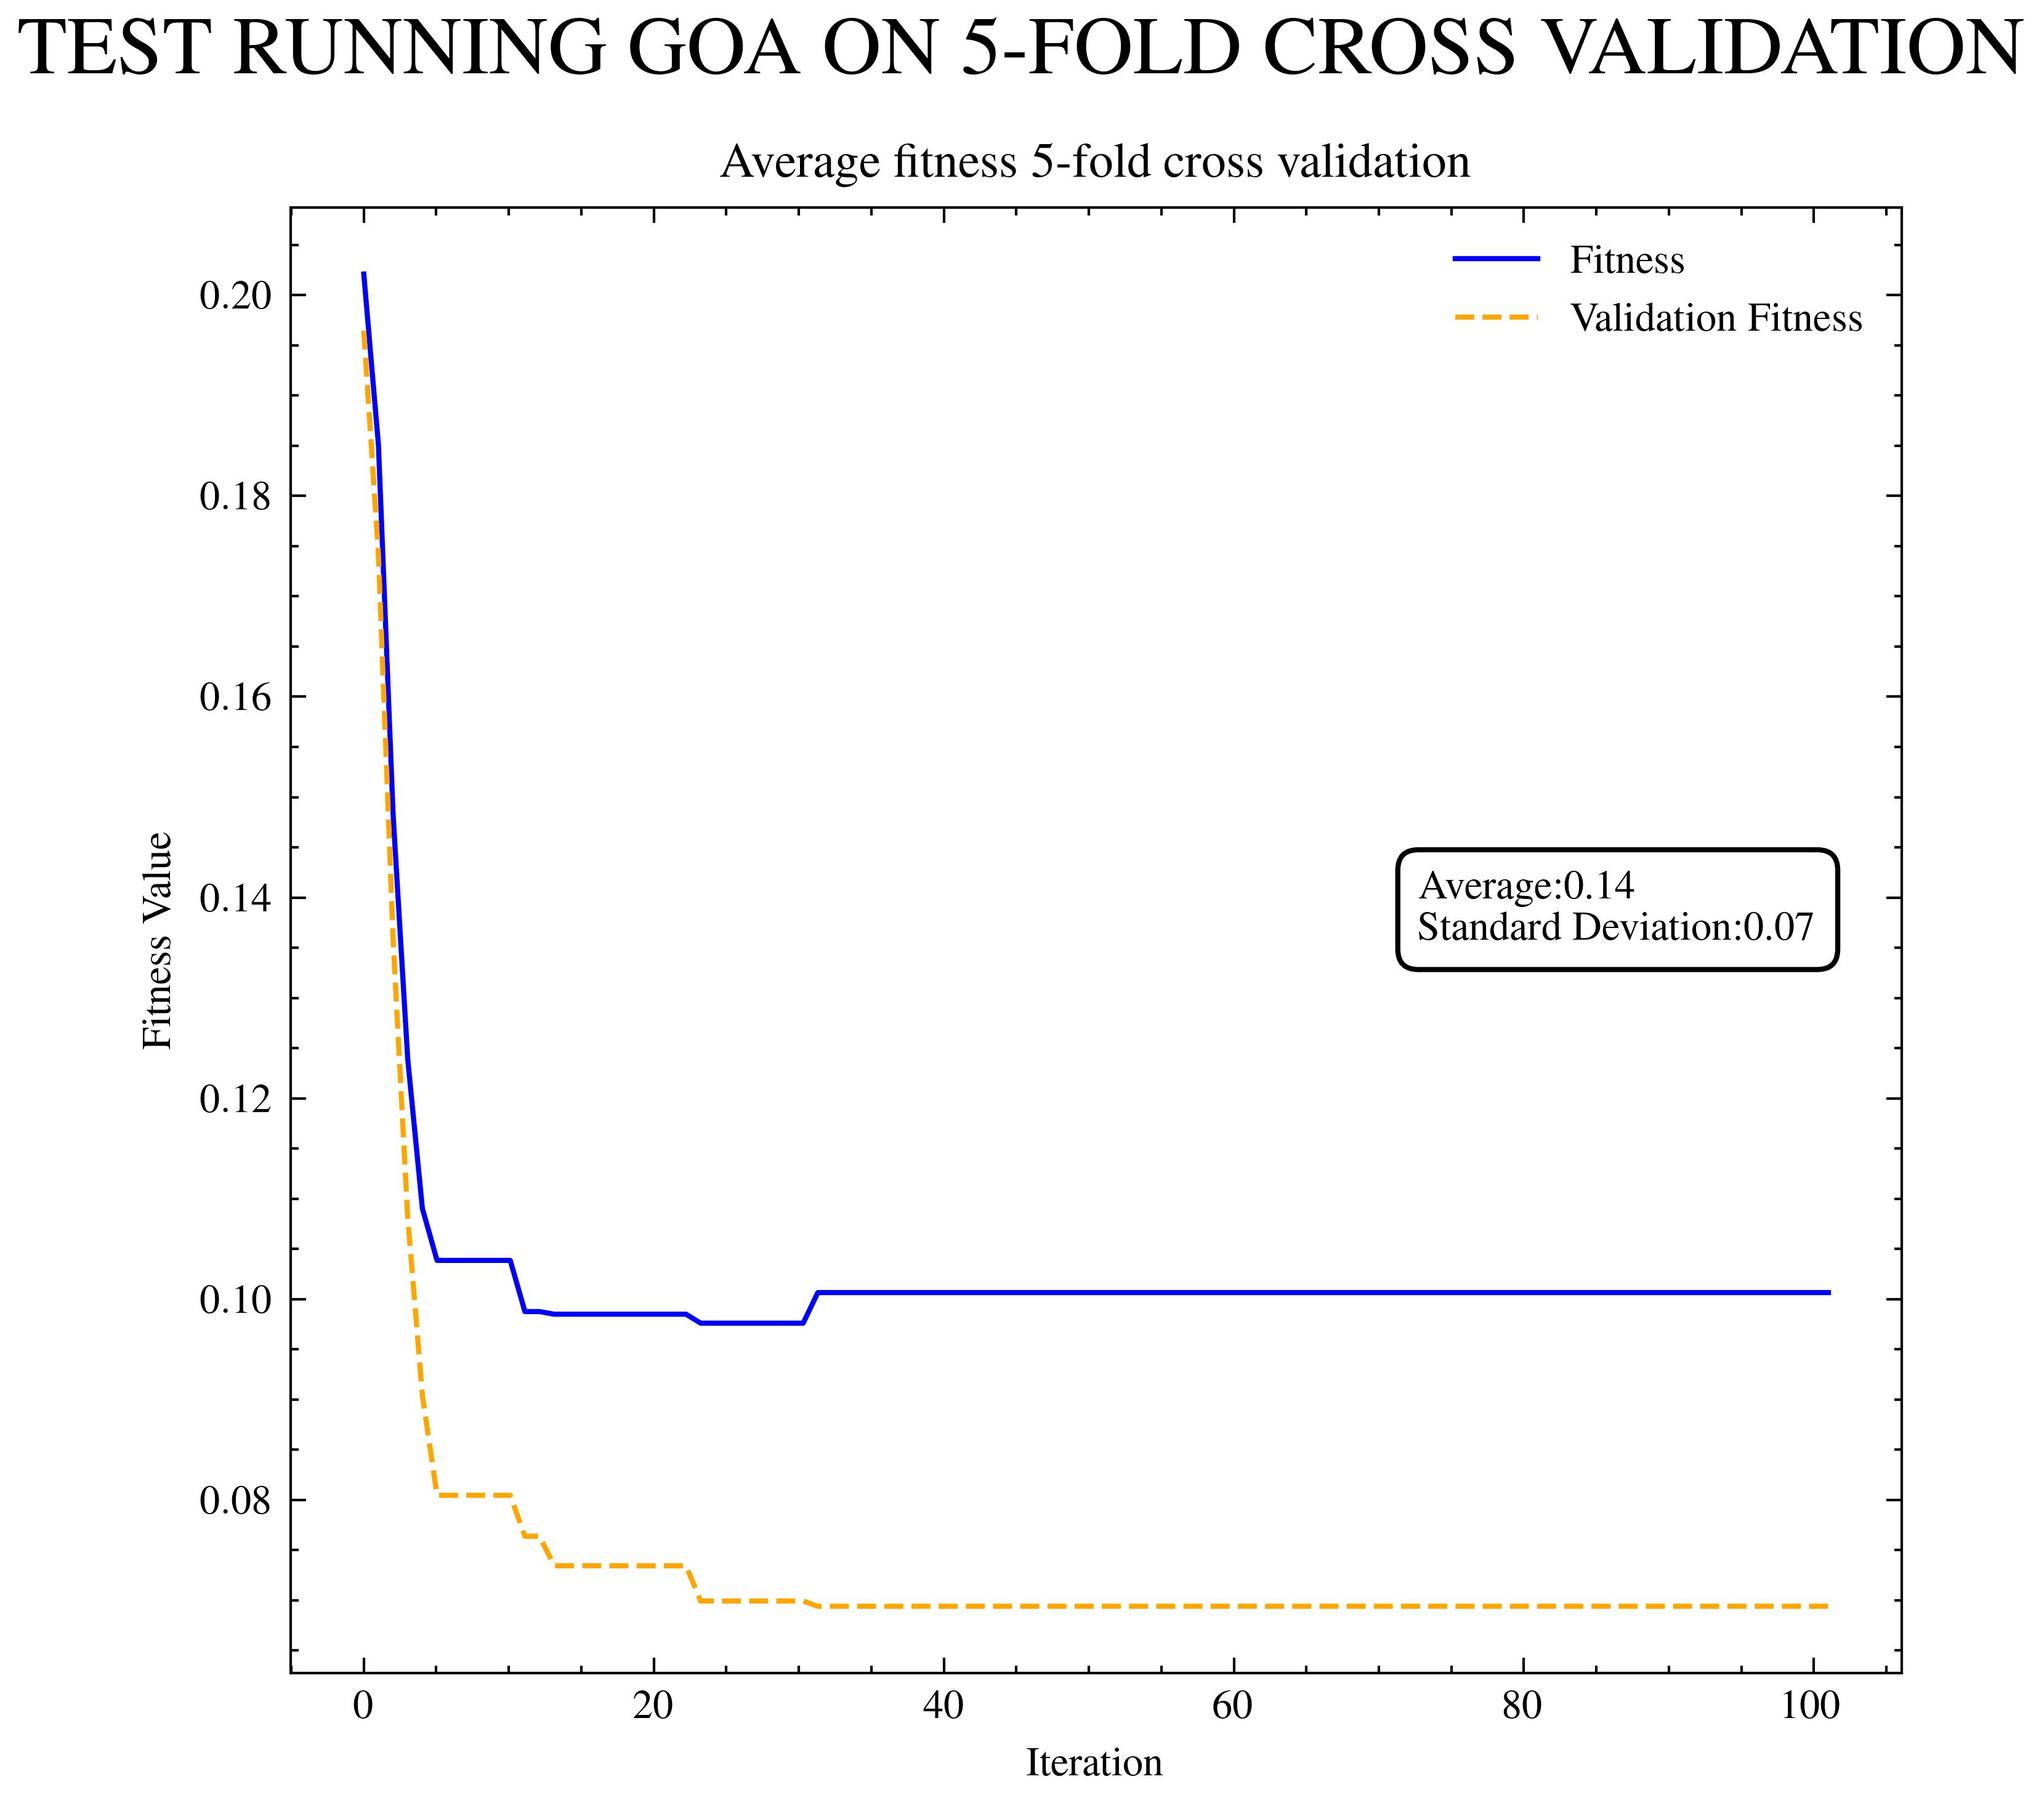
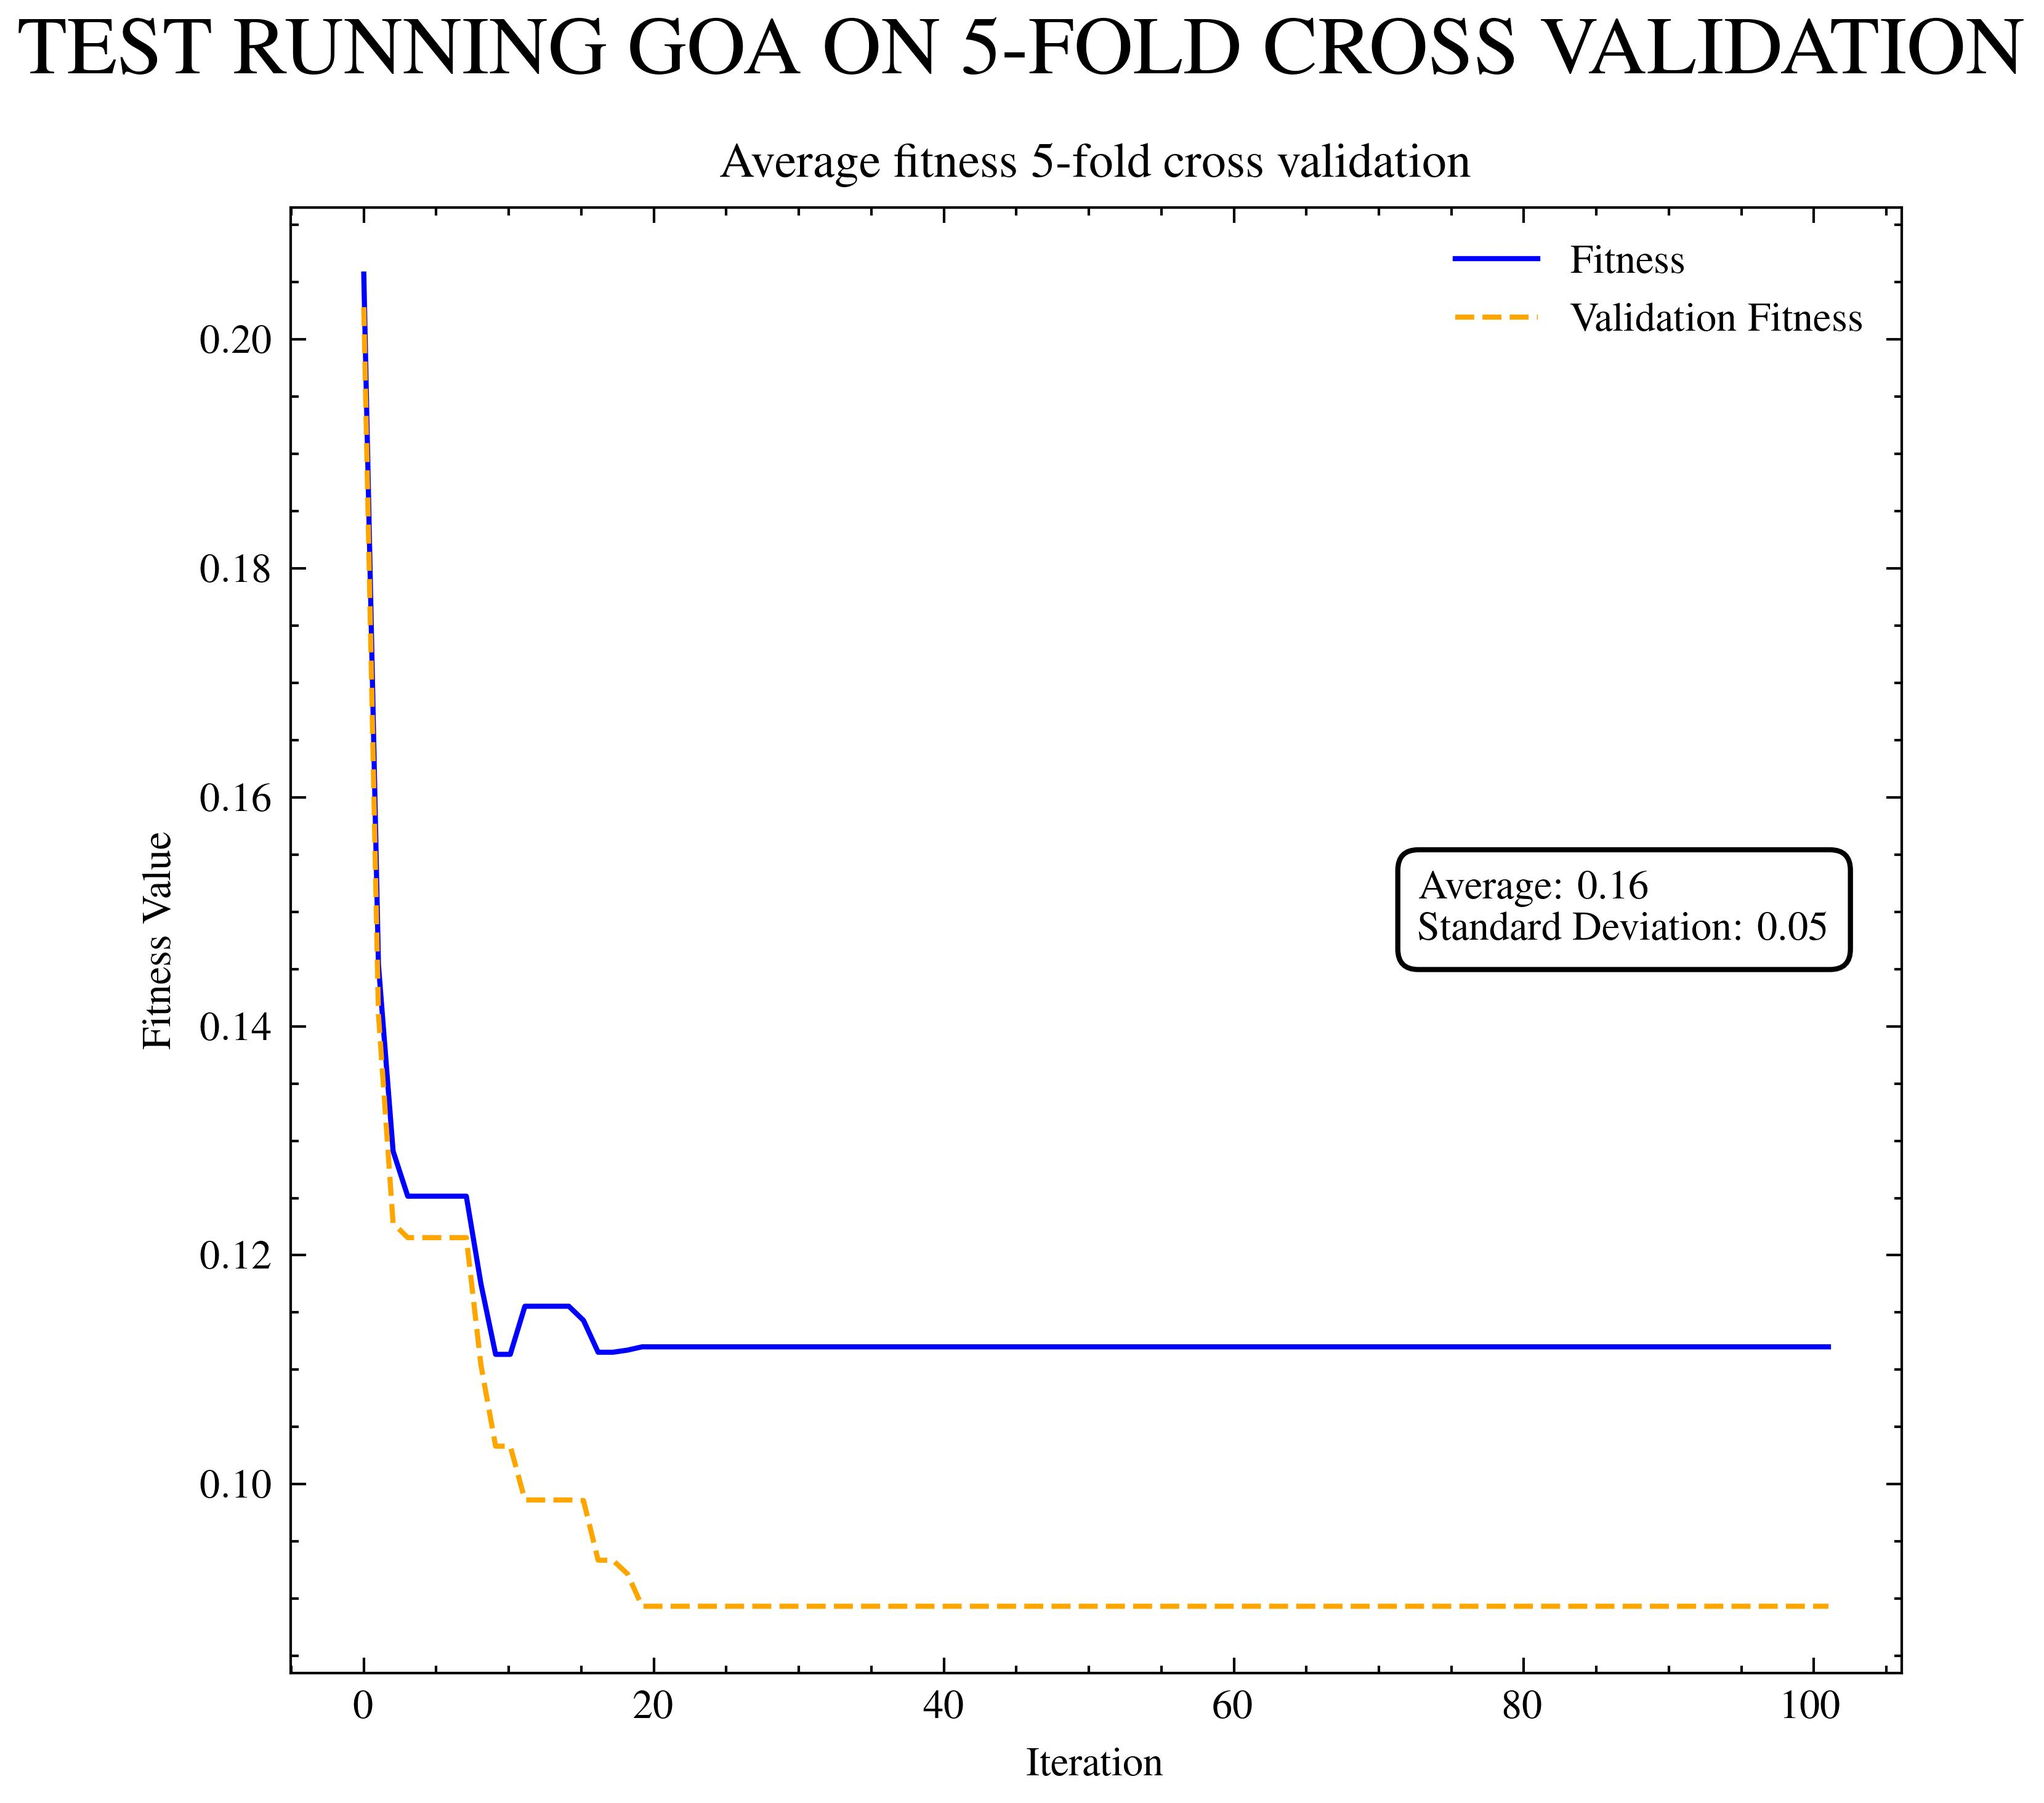
Fix
Fixed test fitness calculation in test_utils, Fixed default parameters, Added parameter C for SVC classifier

diff --git a/src/test_utils.py b/src/test_utils.py
@@ -4,6 +4,7 @@ from data_utils import *
 from analysis_utils import *
 from plots import *
 import matplotlib.pyplot as plt
+from math import sqrt
 
 
 def default_parameters(opt=None):
@@ -30,7 +31,7 @@ def default_parameters(opt=None):
     """
 
     # Test parameters
-    dataset = split_data_to_dict(load_arff_data(D1))
+    dataset = split_data_to_dict(scaling_min_max(load_arff_data(D2)))
     optimizer = OPTIMIZERS[
         opt.upper()] if opt else OPTIMIZERS[DEFAULT_OPTIMIZER]
 
@@ -54,9 +55,11 @@ def default_parameters(opt=None):
             "alpha":
             0.5,
             "classifier":
-            KNN_CLASSIFIER,
+            SVC_CLASSIFIER,
             "n_neighbors":
-            20,
+            DEFAULT_NEIGHBORS,
+            "c":
+            0.1
         },
     }
 
@@ -65,6 +68,7 @@ def test_run_optimizer(
     optimizer=OPTIMIZERS[DEFAULT_OPTIMIZER],
     optimizer_parameters=None,
     target_function_parameters=None,
+    dataset=None,
 ):
     """
     Run the optimizer and plot the fitness curves over training.
@@ -77,21 +81,32 @@ def test_run_optimizer(
     Returns:
     - None
     """
+    x_train, x_test, y_train, y_test = train_test_split(dataset[DATA],
+                                                        dataset[LABELS],
+                                                        test_size=0.2,
+                                                        random_state=42)
     optimizer_name = get_optimizer_name_by_function(optimizer)
+    target_function_parameters[DATA] = {DATA: x_train, LABELS: y_train}
+    target_function_parameters['n_neighbors'] = int(sqrt(x_train.shape[0]))
 
     # Running the optimizer
-    test_fitness, fitness_values = optimizer(
+    best_result, fitness_values = optimizer(
         target_function=fitness,
         target_function_parameters=target_function_parameters,
         **optimizer_parameters)
-    print(test_fitness)
-    print("Test fitness for {} optimizer in {} classifier: {}".format(
+    print("Best result for {} optimizer in {} classifier: {}".format(
         optimizer_name,
         target_function_parameters["classifier"],
-        round(np.mean(test_fitness), 2),
+        round(best_result[-1], 2),
     ))
 
-    # Plotting average fitness over k folds in cross validation
+    target_function_parameters[DATA] = {DATA: x_test, LABELS: y_test}
+    target_function_parameters['weights'] = best_result[:-2]
+    test = fitness(**target_function_parameters)['ValFitness']
+
+    print("Test result: {}".format(round(test, 2), ))
+
+    # Plotting average fitness curves
     plot_fitness_over_training(
         fitness_values=fitness_values,
         title="Training curve on {} optimizer".format(optimizer_name))
@@ -155,7 +170,8 @@ def test_cross_validation(
         fontsize=16,
     )
     plt.tight_layout()
-    plt.savefig("./images/test_k_cross_validation_{}.jpg".format(optimizer_name))
+    plt.savefig(
+        "./images/test_k_cross_validation_{}.jpg".format(optimizer_name))
 
 
 if __name__ == "__main__":
@@ -165,15 +181,16 @@ if __name__ == "__main__":
     plot_s_shaped_transfer_function(axs[0])
     plot_v_shaped_transfer_function(axs[1])
     plt.savefig("./images/transfer_functions.jpg")
-    """
     
+    """
     test_run_optimizer(
         **{
             key: value
             for key, value in default_parameters(optimizer).items()
-            if key != "k" and key != "dataset"
-        })     
+            if key != "k"
+        })
     """
 
     test_cross_validation(**default_parameters(optimizer))
+
     """

diff --git a/src/data_utils.py b/src/data_utils.py
@@ -2,6 +2,7 @@ import arff
 import numpy as np
 from sklearn.preprocessing import MinMaxScaler
 from constants import *
+from sklearn.preprocessing import StandardScaler
 
 # ---------------------------------- DATA GENERAL ------------------------------------ #
 
@@ -40,9 +41,36 @@ def split_data_to_dict(dataset):
     Returns:
     - dict: A dictionary containing the samples and labels.
     """
+    np.random.shuffle(dataset)
     samples = dataset[:, :-1].astype(np.float64)
     classes = dataset[:, -1]
     return {DATA: samples, LABELS: classes}
+
+def split_data_to_dict_train_test(dataset, train_ratio=0.8):
+    """
+    Splits the given dataset into a dictionary containing the samples and labels for training and testing.
+
+    Parameters:
+    - dataset (numpy.ndarray): The dataset to be split.
+    - train_ratio (float): The ratio of data to be used for training. Default is 0.8.
+
+    Returns:
+    - dict: A dictionary containing the training and testing samples and labels.
+    """
+    np.random.shuffle(dataset)
+    num_samples = len(dataset)
+    train_size = int(num_samples * train_ratio)
+    
+    train_data = dataset[:train_size, :-1].astype(np.float64)
+    train_labels = dataset[:train_size, -1]
+    
+    test_data = dataset[train_size:, :-1].astype(np.float64)
+    test_labels = dataset[train_size:, -1]
+    
+    return {
+        "train": {DATA: train_data, LABELS: train_labels},
+        "test": {DATA: test_data, LABELS: test_labels}
+    }
 
 
 def split_data(dataset):
@@ -114,12 +142,17 @@ def scaling_standard_score(data):
     - ndarray: The scaled data array with normalized features and labels.
     """
     # Separate the features (x) and labels (y)
-    x, y = split_data(data)
+    # Separate the features (x) and labels (y)
+    x = data[:, :-1]
+    y = data[:, -1]
 
-    # Scale data to meet std deviation of 0 and mean 1
-    x_scaled = (np.mean(x, axis=0) - x) / np.std(x, axis=0)
+    # Initialize the scaler
+    scaler = StandardScaler()
 
-    # Combine the normalized features (x_normalized) and labels (y) into a single array
+    # Fit and transform the features
+    x_scaled = scaler.fit_transform(x)
+
+    # Combine the normalized features (x_scaled) and labels (y) into a single array
     return np.column_stack((x_scaled, y))
 
 

diff --git a/src/analysis_utils.py b/src/analysis_utils.py
@@ -11,7 +11,7 @@ from data_utils import *
 # TODO add to plot population sizes and optimizer names
 
 
-def compute_accuracy(weights, data, classifier='knn', n_neighbors=5):
+def compute_accuracy(weights, data, classifier='knn', n_neighbors=5, c=0.1):
     sample = data[DATA]
     labels = data[LABELS]
 
@@ -25,7 +25,7 @@ def compute_accuracy(weights, data, classifier='knn', n_neighbors=5):
         classifier = KNeighborsClassifier(n_neighbors=n_neighbors,
                                           weights='distance')
     elif (classifier == 'svc'):
-        classifier = SVC(kernel='rbf')
+        classifier = SVC(C=c, kernel='rbf')
     else:
         print('No valid classifier, using KNN by default')
         classifier = KNeighborsClassifier(n_neighbors=n_neighbors,
@@ -42,13 +42,14 @@ def compute_accuracy(weights, data, classifier='knn', n_neighbors=5):
     return {'TrainError': e_in, 'ValError': e_out}
 
 
-def fitness(weights, data, alpha=0.5, classifier='knn', n_neighbors=5):
+def fitness(weights, data, alpha=0.5, classifier='knn', n_neighbors=5, c=0.1):
     reduction_count = np.sum(weights == 0)
     weights[weights < 0.1] = 0.0
     classification_rate = compute_accuracy(weights,
                                            data=data,
                                            classifier=classifier,
-                                           n_neighbors=n_neighbors)
+                                           n_neighbors=n_neighbors,
+                                           c=c)
     reduction_rate = reduction_count / len(weights)
 
     # Calculate the error as a percentage

diff --git a/src/pyMetaheuristic/algorithm/aco.py b/src/pyMetaheuristic/algorithm/aco.py
@@ -26,14 +26,15 @@ def ant_build_subset(ant, n_features, feature_pheromone, alpha):
             p_num[node_j] = (tau**alpha)
         den = np.sum(p_num)
         p = p_num / den
-        r = np.random.random()
-        if r < p[node_i]:
+        r = np.random.rand()
+        if r <= p[node_i]:
             ant[0].append(1)
         else:
             ant[0].append(0)
 
 
 # Function: Update Pheromones
+# TODO revisar
 def update_pheromones(best_ant, feature_pheromone, evaporation_rate, Q_constant):
     delta_pheromones = np.zeros(shape=feature_pheromone.shape)
     for feature in best_ant[0]:

diff --git a/src/constants.py b/src/constants.py
@@ -18,10 +18,10 @@ D3 = './datasets/parkinsons.arff'
 # --------------------------------- OPTIMIZERS ----------------------------------- #
 
 OPTIMIZERS = {
-    #'GOA': grasshopper_optimization_algorithm,
-    #'WOA': whale_optimization_algorithm,
-    #'DA': dragonfly_algorithm,
-    # 'GWO': grey_wolf_optimizer,
+    'GOA': grasshopper_optimization_algorithm,
+    'WOA': whale_optimization_algorithm,
+    'DA': dragonfly_algorithm,
+    'GWO': grey_wolf_optimizer,
     'ABCO': artificial_bee_colony_optimization,
     'BA': bat_algorithm,
     'PSO': particle_swarm_optimization,

diff --git a/src/main.py b/src/main.py
@@ -44,7 +44,8 @@ def main(*args, **kwargs):
         'data': dataset,
         'alpha': 0.5,
         'classifier': 'svc',
-        'n_neighbors': DEFAULT_NEIGHBORS
+        'n_neighbors': DEFAULT_NEIGHBORS,
+        'c': 0.1
     }
 
     for opt in optimizer_dict.keys():
